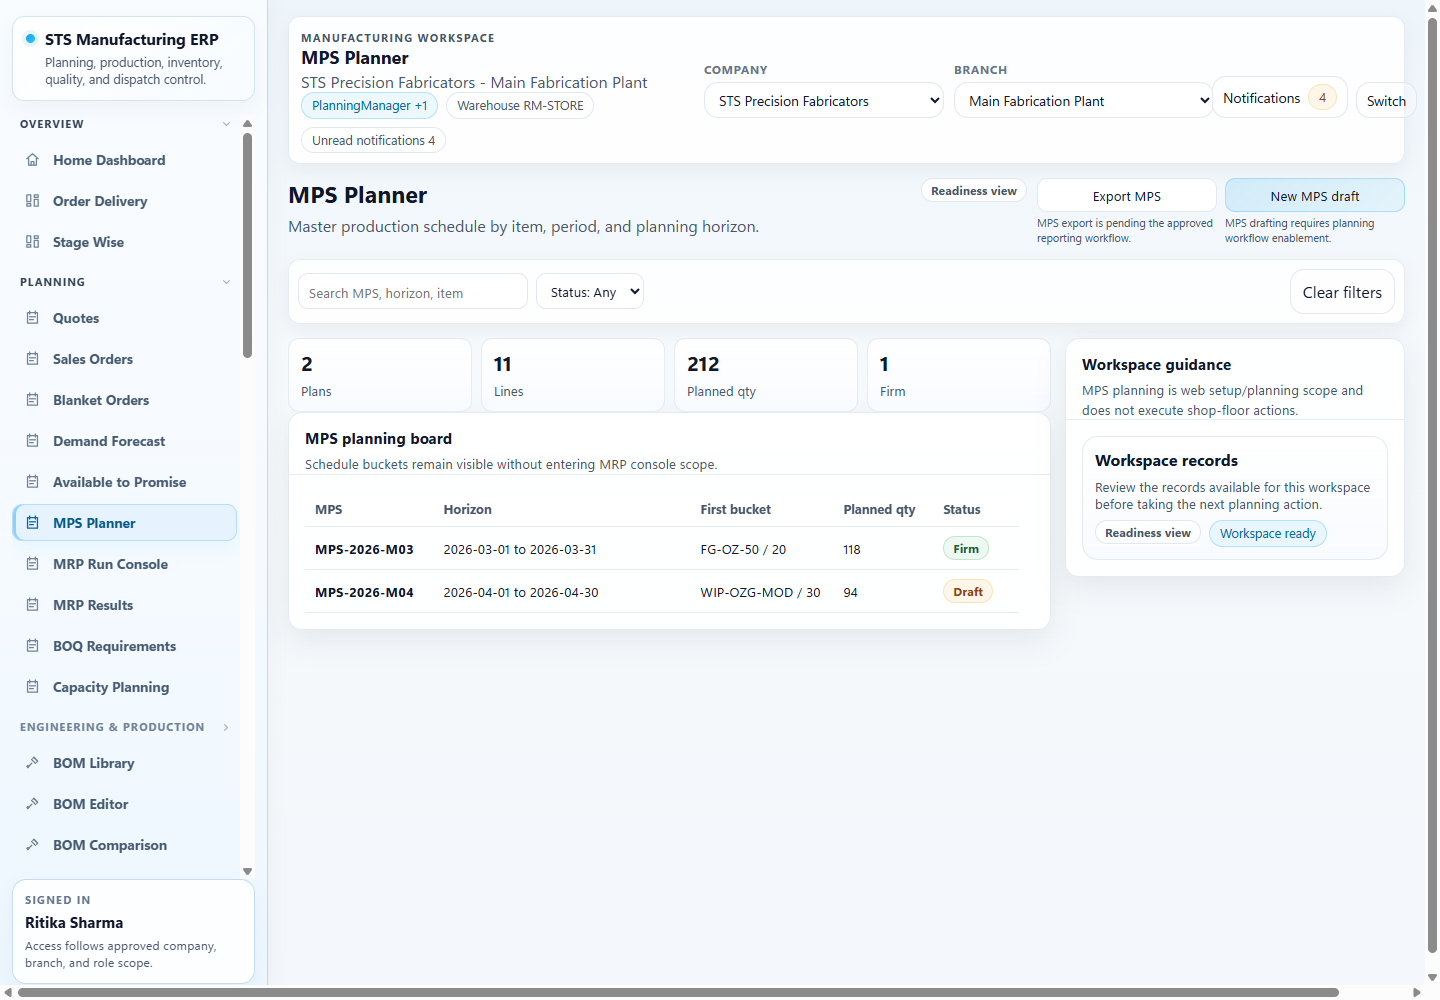
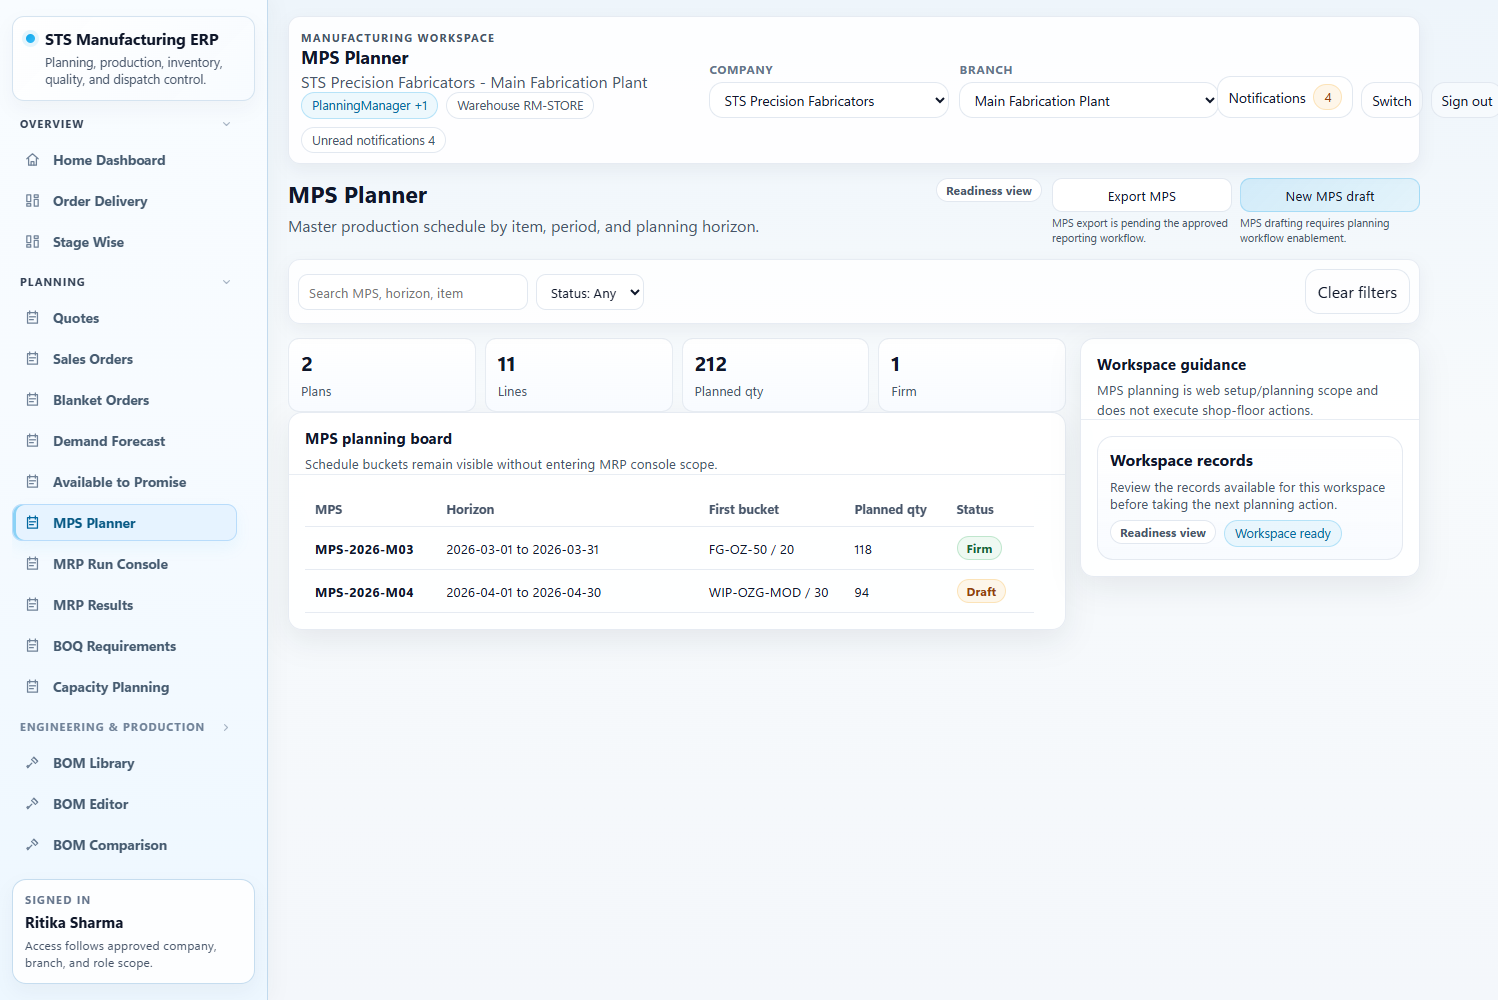
Harden MPS planning workspace reasons

diff --git a/src/server/STS.Mfg.Host/wwwroot/index.html b/src/server/STS.Mfg.Host/wwwroot/index.html
@@ -6,7 +6,7 @@
     <meta name="theme-color" content="#0ea5e9" />
     <link rel="icon" type="image/svg+xml" href="/favicon.svg" />
     <title>STS Manufacturing ERP</title>
-    <script type="module" crossorigin src="/assets/index-5j44VxAO.js"></script>
+    <script type="module" crossorigin src="/assets/index-B-mZGzW5.js"></script>
     <link rel="stylesheet" crossorigin href="/assets/index-BxetQJJ_.css">
   </head>
   <body>

diff --git a/src/web/src/pages/CommercialPlanningPages.tsx b/src/web/src/pages/CommercialPlanningPages.tsx
@@ -553,7 +553,7 @@ export function MpsPlannerPage() {
           <ErpGrid ariaLabel="MPS planner list" columns={mpsColumns} getRowId={(record) => record.id} isLoading={query.isLoading} onRowSelect={(record) => setSelectedId(record.id)} records={records} rowLabel={(record) => `${record.mpsCode} mps`} testId="mps-grid" virtualization={{ enabled: true }} />
         </Card>
       </ListPageShell>
-      <ErpModalWorkspace description="MPS detail is review-only until MPS drafting is enabled." footer={<ErpActionBar primary={[{ disabled: true, label: "Save MPS draft", reason: "MPS save requires planning workflow enablement." }]} utility={[{ label: "Close", onClick: () => setSelectedId(null), variant: "quiet" }]} />} isOpen={Boolean(selected)} onClose={() => setSelectedId(null)} title={selected?.mpsCode ?? "MPS detail"}>{selected ? <FormShell initialFingerprint={selected.id} title="MPS setup"><label><span>Horizon</span><input defaultValue={selected.horizon} disabled title="MPS drafting is disabled until planning workflow enablement." /></label><ErpLookupField disabled disabledReason="MPS bucket item is controlled by Item Master and planning UOM setup." label="First bucket" onChange={() => undefined} options={[{ label: selected.firstBucket, value: selected.firstBucket }]} value={selected.firstBucket} /></FormShell> : null}</ErpModalWorkspace>
+      <ErpModalWorkspace description="MPS detail is review-only until MPS drafting is enabled." footer={<ErpActionBar primary={[{ disabled: true, label: "Save MPS draft", reason: "MPS save requires planning workflow enablement." }]} utility={[{ label: "Close", onClick: () => setSelectedId(null), variant: "quiet" }]} />} isOpen={Boolean(selected)} onClose={() => setSelectedId(null)} title={selected?.mpsCode ?? "MPS detail"}>{selected ? <FormShell initialFingerprint={selected.id} title="MPS setup"><label><span>Horizon</span><input aria-describedby="mps-horizon-disabled-reason" aria-label="Horizon" defaultValue={selected.horizon} disabled title="MPS drafting is disabled until planning workflow enablement." /><small id="mps-horizon-disabled-reason">MPS drafting is disabled until planning workflow enablement.</small></label><ErpLookupField disabled disabledReason="MPS bucket item is controlled by Item Master and planning UOM setup." label="First bucket" onChange={() => undefined} options={[{ label: selected.firstBucket, value: selected.firstBucket }]} value={selected.firstBucket} /></FormShell> : null}</ErpModalWorkspace>
     </>
   );
 }

diff --git a/src/web/src/pages/Wave05AEngineeringPlanningDepth.test.tsx b/src/web/src/pages/Wave05AEngineeringPlanningDepth.test.tsx
@@ -158,6 +158,8 @@ describe("Wave 5A engineering and planning depth", () => {
 
     fireEvent.click(await screen.findByRole("row", { name: "MPS-2026-M03 mps" }));
     expect(await screen.findByText("MPS setup")).toBeInTheDocument();
+    expect(screen.getByLabelText("Horizon")).toBeDisabled();
+    expect(screen.getByText("MPS drafting is disabled until planning workflow enablement.")).toBeInTheDocument();
     expect(screen.getByLabelText("First bucket")).toBeDisabled();
     expect(document.body.textContent ?? "").not.toMatch(internalTerms);
   });

diff --git a/docs/codex-progress/LANE-ENG-PLAN-output.md b/docs/codex-progress/LANE-ENG-PLAN-output.md
@@ -56,3 +56,22 @@
 - `dotnet build src/server/STS.Mfg.sln`: PASS, 0 warnings / 0 errors
 - `dotnet test src/server/STS.Mfg.sln --no-build`: PASS, 12 tests
 - `dotnet publish src/server/STS.Mfg.Host/STS.Mfg.Host.csproj -c Release`: PASS
+
+## Merge-Ready Cleanup Pass - 2026-05-07
+- Kept work on `lane/eng-plan` and PR #1 only.
+- Added a visible disabled reason and explicit accessible label to the locked `Horizon` field in the MPS modal workspace.
+- Extended `Wave05AEngineeringPlanningDepth.test.tsx` to assert the locked MPS horizon field and visible reason.
+- Updated `07-ux-governance/action_truth_matrix.csv` for the touched `Save MPS draft` workspace action notes.
+- Refreshed screenshot evidence:
+  - `docs/codex-review-screens/LANE-ENG-PLAN/mps-planner.png`
+  - `docs/codex-review-screens/LANE-ENG-PLAN/mps-workspace.png`
+
+## Merge-Ready Validation - 2026-05-07
+- `npm.cmd run typecheck`: PASS
+- `npm.cmd test -- Wave05AEngineeringPlanningDepth.test.tsx`: PASS, 5 tests
+- `npm.cmd test`: PASS, 34 test files / 136 tests
+- `npm.cmd run build`: PASS
+- `npm.cmd run build:host`: PASS
+- `dotnet build src/server/STS.Mfg.sln`: PASS, 0 warnings / 0 errors
+- `dotnet test src/server/STS.Mfg.sln --no-build`: PASS, 12 tests
+- `dotnet publish src/server/STS.Mfg.Host/STS.Mfg.Host.csproj -c Release`: PASS